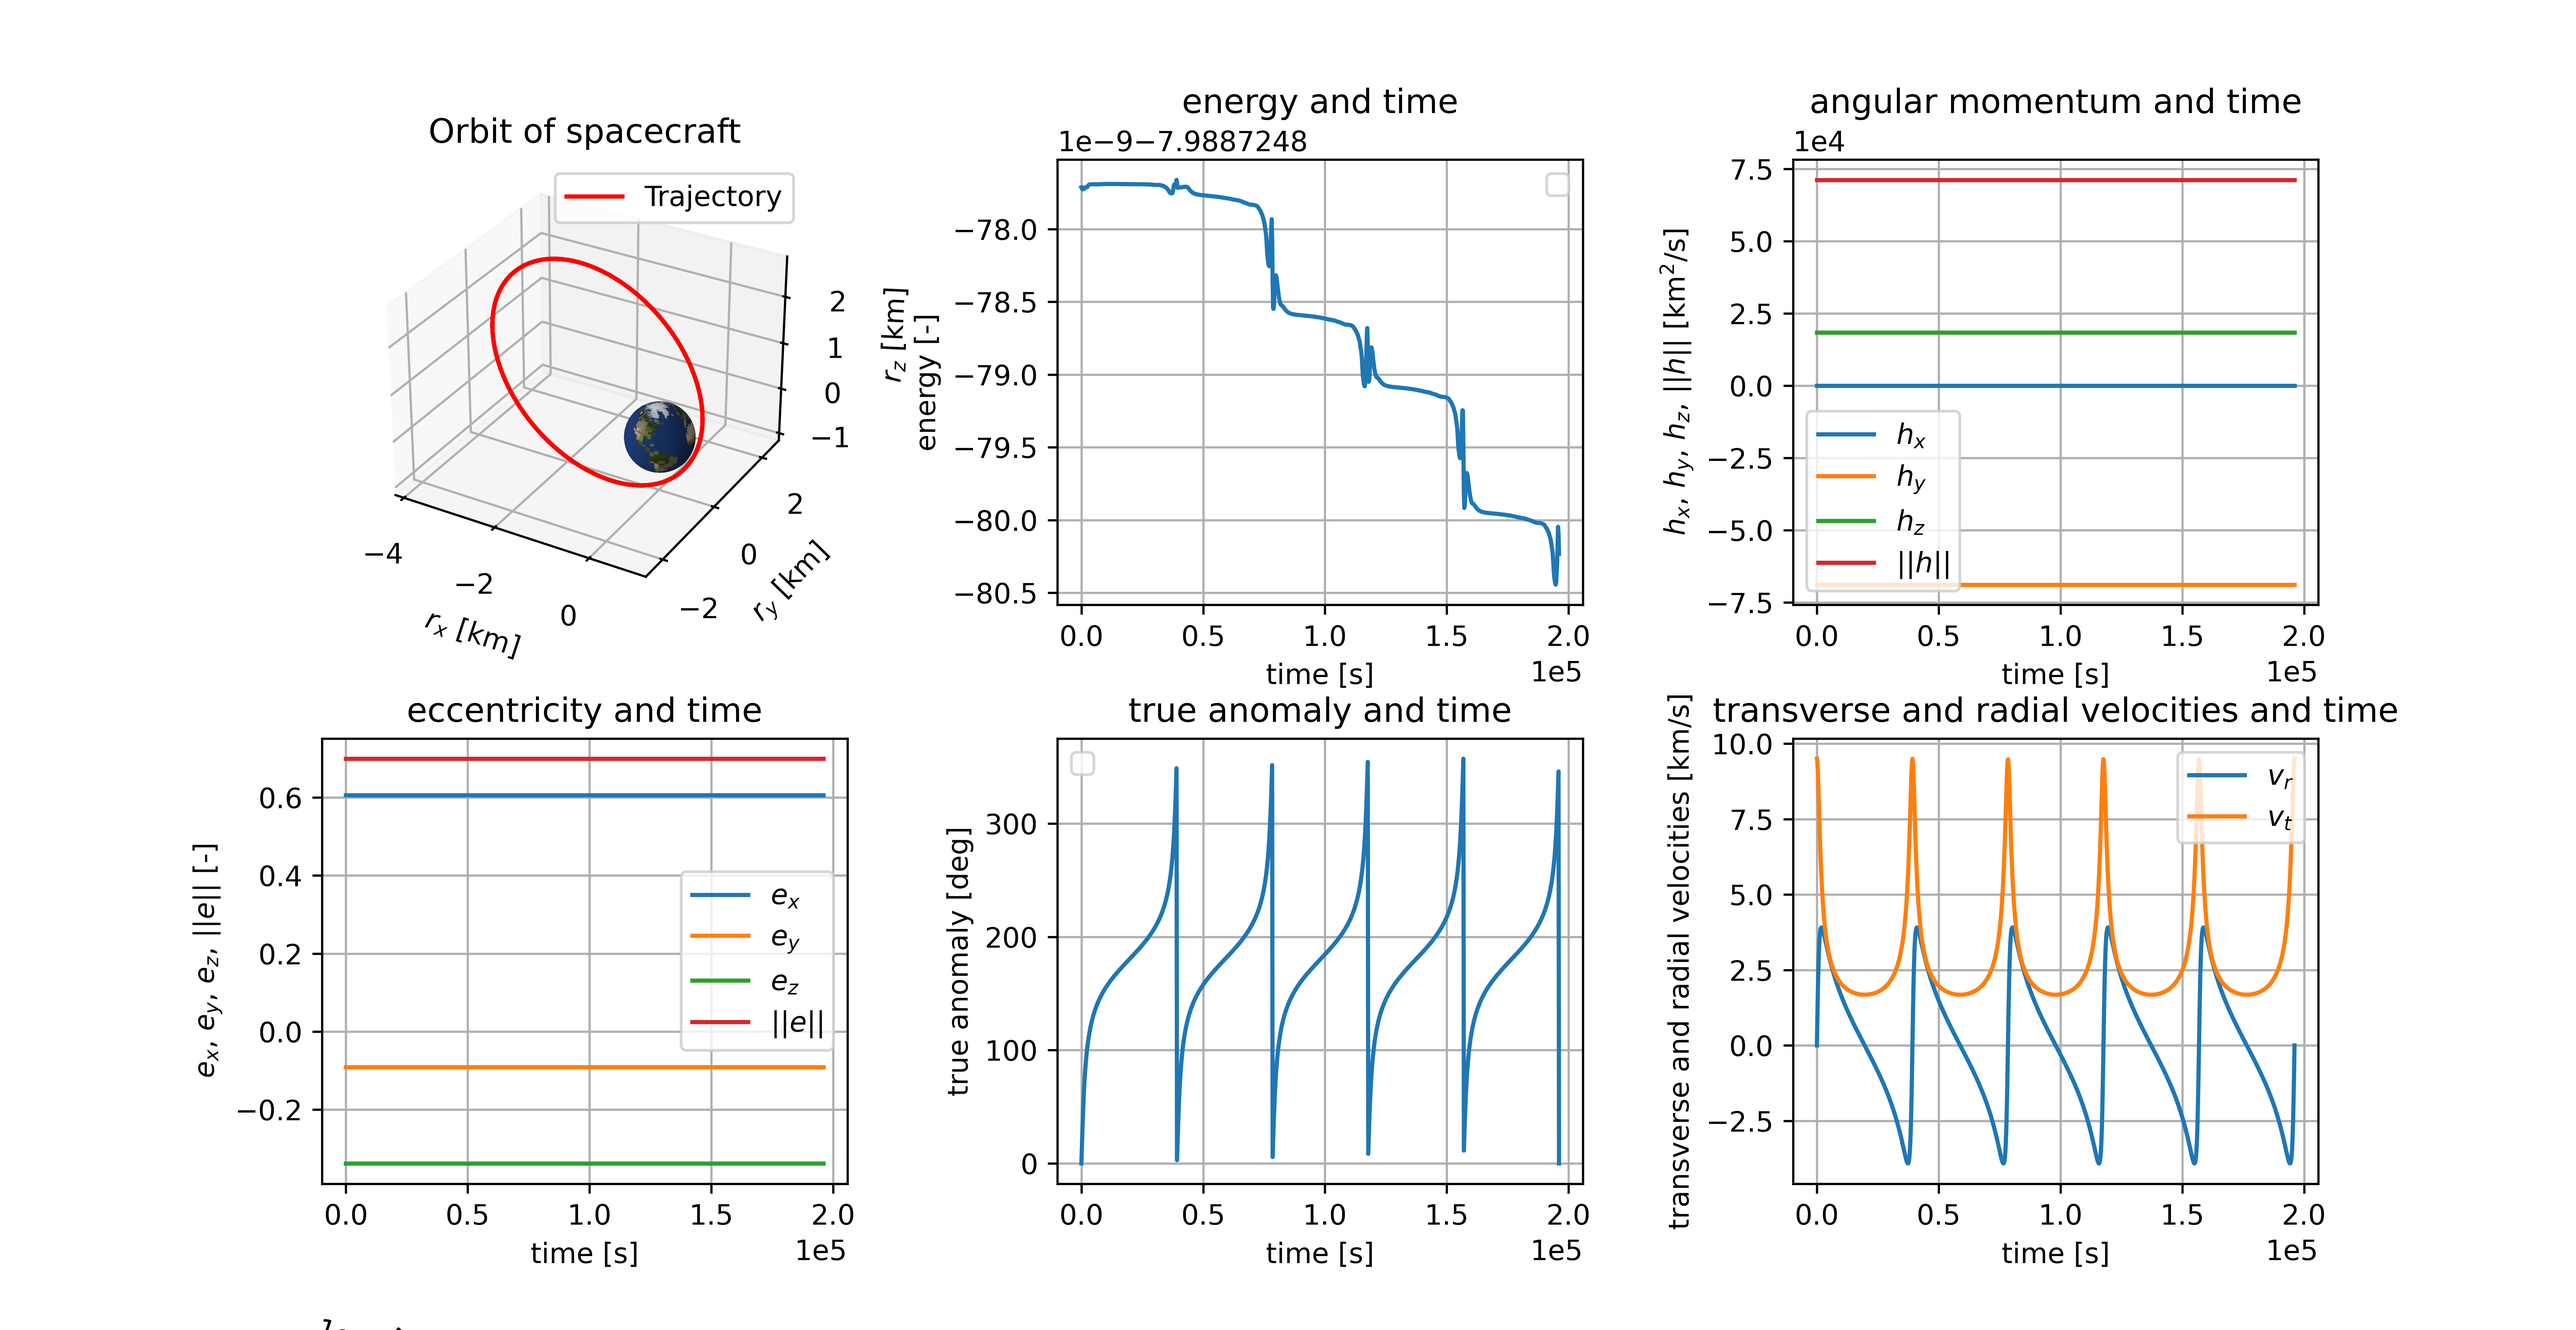
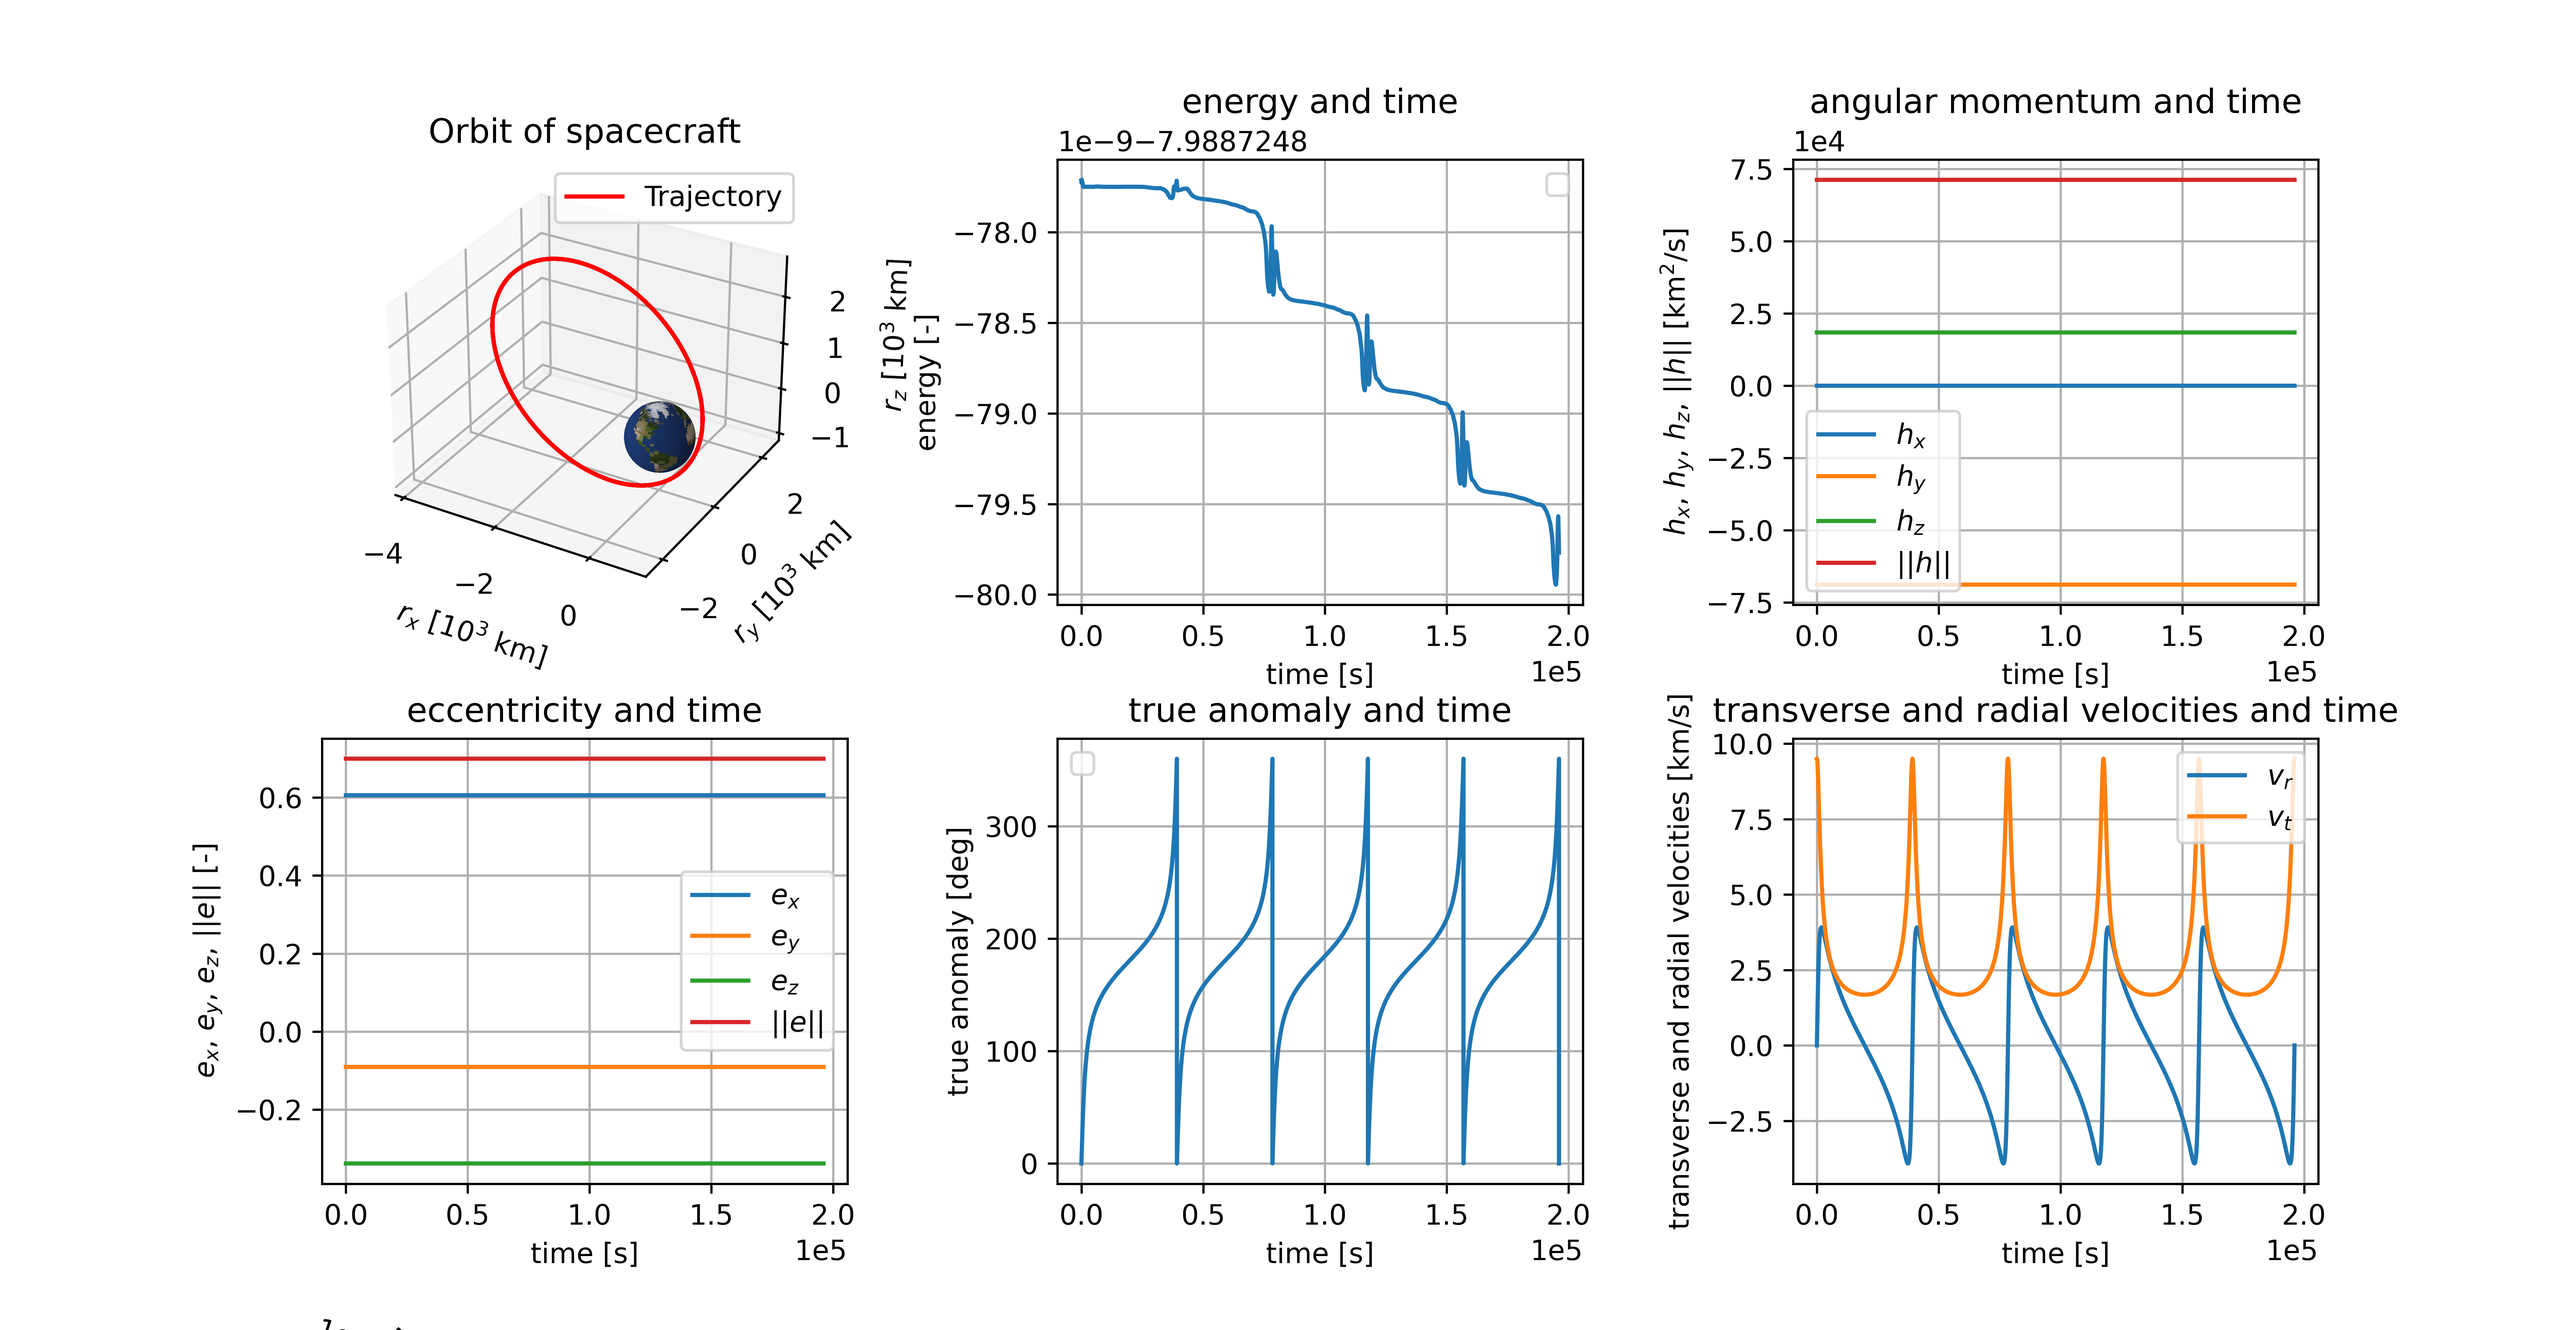
Fix some comments

diff --git a/Lab1/Es1/Es1.py b/Lab1/Es1/Es1.py
@@ -20,7 +20,7 @@ r0_norm = np.linalg.norm(r0)  # [km]
 # time
 a = 1 / (2 / r0_norm - np.dot(v0, v0) / muP)  # semi-major axis [km]
 T = 2 * np.pi * np.sqrt((a ** 3) / muP)  # Period of the orbit [s]
-t = np.linspace(0, n*T, 1000)
+t = np.linspace(0, n*T, 100000)
 
 # integration
 options = {'rtol': 1e-13, 'atol': 1e-13}
@@ -79,9 +79,9 @@ ax1.plot(r[:, 0], r[:, 1], r[:, 2], 'r', label='Trajectory')
 plot_planet('earth', ax1)
 ax1.axis('equal')
 ax1.legend()
-ax1.set_xlabel('$r_x$ [km]')
-ax1.set_ylabel('$r_y$ [km]')
-ax1.set_zlabel('$r_z$ [km]')
+ax1.set_xlabel('$r_x$ [$10^3$ km]')
+ax1.set_ylabel('$r_y$ [$10^3$ km]')
+ax1.set_zlabel('$r_z$ [$10^3$ km]')
 ax1.set_title('Orbit of spacecraft')
 ax1.grid()
 ax1.ticklabel_format(axis='both', style='sci', scilimits=(0, 0))  # set scientific notation
